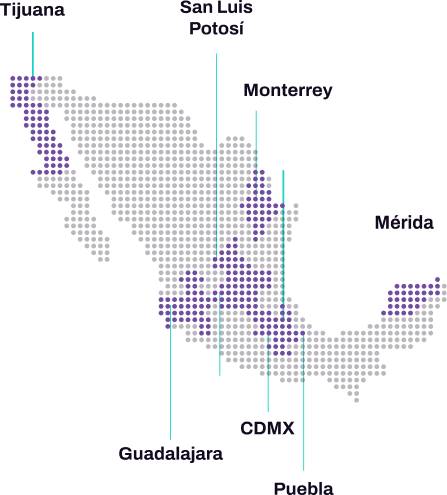
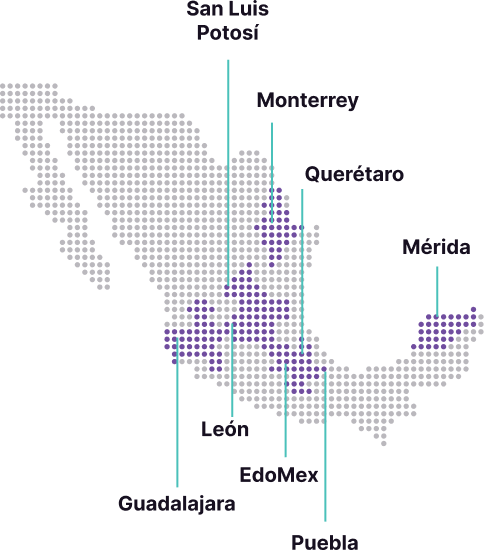
fixes today

Changed region(s): [[0.0, 0.0, 1.0, 1.0], [0.0, 0.0, 0.1454, 0.0606]]

diff --git a/components/Home/Sections.vue b/components/Home/Sections.vue
@@ -216,7 +216,7 @@
                             <v-col cols="12" lg="4" md="4" sm="12" xs="12" align="center" align-self="center">
                                 <v-card class="px-5 my-2" height="300" color="white">
                                     <v-card-text>
-                                        <p class="text-h5 text-uppercase text-center font-weight-bold mt-5 text-color-testimonios">
+                                        <p class="text-h5 text-uppercase text-center font-weight-bold mt-2 text-color-testimonios">
                                             CHIAPLAST
                                         </p>
                                         <p class="ma-0 text-h6 text-center text-color-testimonios">
@@ -242,7 +242,7 @@
                             <v-col cols="12" lg="4" md="4" sm="12" xs="12" align="center" align-self="center">
                                 <v-card class="mx-5 px-5 my-2" height="330" color="rgba(9, 187, 174, 1)">
                                     <v-card-text>
-                                        <p class="text-h5 text-uppercase text-center font-weight-bold mt-5 black--text" >
+                                        <p class="text-h5 text-uppercase text-center font-weight-bold mt-2 black--text" >
                                             Criser
                                         </p>
                                         <p class="ma-0 text-h6 text-center black--text">
@@ -268,8 +268,8 @@
                             <v-col cols="12" lg="4" md="4" sm="12" xs="12" align="center" align-self="center">
                                 <v-card class="mx-5 px-5 my-2" height="300" color="white">
                                     <v-card-text>
-                                        <p class="text-h5 text-md-subtitle1 text-uppercase text-center font-weight-bold mt-5 text-color-testimonios">
-                                            Plásticos Técnicos Mexicanos
+                                        <p class="text-h5 text-uppercase text-center font-weight-bold mt-2 text-color-testimonios">
+                                            <!--Plásticos Técnicos Mexicanos--> PTM
                                         </p>
                                         <p class="ma-0 text-h6 text-center text-color-testimonios">
                                             José Juan Reyes Chávez
@@ -281,7 +281,7 @@
                                             <v-icon color="#19D3C5">mdi-star</v-icon>
                                             <v-icon color="#19D3C5">mdi-star</v-icon>
                                         </div>
-                                        <p class="mt-2 text-center">
+                                        <p class="mt-2 text-center" :class="{'text-truncate' : windowSize < 1450 && windowSize > 1129 }">
                                             “En POLNAC hemos encontrado soluciones prácticas para las necesidades de nuestra compañía, 
                                             inmediata respuesta y variedad en productos, así como un amplio conocimiento técnico que nos 
                                             ha permitido ser más eficientes en nuestros procesos y costos”.
@@ -340,7 +340,7 @@
                         <v-img src="/map.png" contain max-height="450" max-width="450" alt="sucursales"></v-img >
                     </v-col>
                     <v-col v-if="windowSize < 1129">
-                        <p class="text-body-all text-justify">Sucursales nacionales <span class="font-weight-bold">estratégicamente</span> ubicadas en: Monterrey, Guadalajara, Estado de México, San Luis Potosí, León, Mérida, Puebla, Querétaro y Tijuana.</p>
+                        <p class="text-body-all text-justify">Sucursales nacionales <span class="font-weight-bold">estratégicamente</span> ubicadas en: Monterrey, Guadalajara, Estado de México, San Luis Potosí, León, Mérida, Puebla, Querétaro.</p>
                     </v-col>
                 </v-row>
                 <v-row class="mx-5">
@@ -353,7 +353,7 @@
                         <p class="text-body-all text-center">de <span class="font-weight-bold">capacidad de producción</span> anual</p>
                     </v-col>
                     <v-col lg="6" md="6" sm="12" xs="12" v-if="windowSize > 1129">
-                        <p class="text-body-all text-left">Sucursales nacionales <span class="font-weight-bold">estratégicamente</span> ubicadas en: Monterrey, Guadalajara, Estado de México, San Luis Potosí, León, Mérida, Puebla, Querétaro y Tijuana.</p>
+                        <p class="text-body-all text-left">Sucursales nacionales <span class="font-weight-bold">estratégicamente</span> ubicadas en: Monterrey, Guadalajara, Estado de México, San Luis Potosí, León, Mérida, Puebla, Querétaro.</p>
                     </v-col>
                 </v-row>
 

diff --git a/components/Appbar.vue b/components/Appbar.vue
@@ -80,7 +80,7 @@
                                                         </v-col>
                                                         <v-col cols="12" lg="2" md="2" sm="12" xs="12" align="center">
                                                             <v-img src="/menu-search/masterbach.png" contain max-height="65"></v-img>
-                                                            <p class="">Masterbach</p>
+                                                            <p class="">Masterbatch</p>
                                                         </v-col>
                                                         <v-col cols="12" lg="2" md="2" sm="12" xs="12" align="center">
                                                             <v-img src="/menu-search/aditivos.png" contain max-height="65"></v-img>

diff --git a/components/FormContact.vue b/components/FormContact.vue
@@ -4,7 +4,7 @@
             <v-row justify="center">
                 <v-col cols="12">
                     <h1 class="font-archivo font-size-30 white--text text-center my-10">
-                        ¿Necesitas más información sobre <span class="font-weight-bold">POLIRESIN</span>?
+                        ¿Necesitas más información sobre <span class="font-weight-bold">{{this.$route.path.includes('poliresin') ? 'POLIRESIN' : 'TRANSPOLIMER'}}</span>?
                     </h1>
                 </v-col>
             </v-row>
